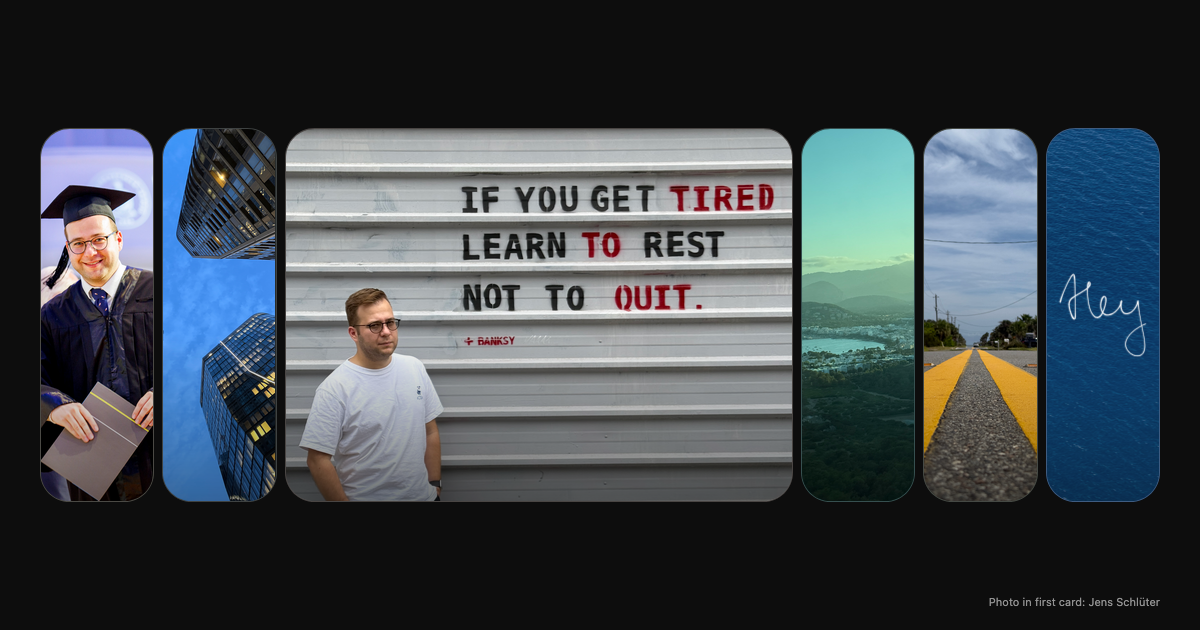
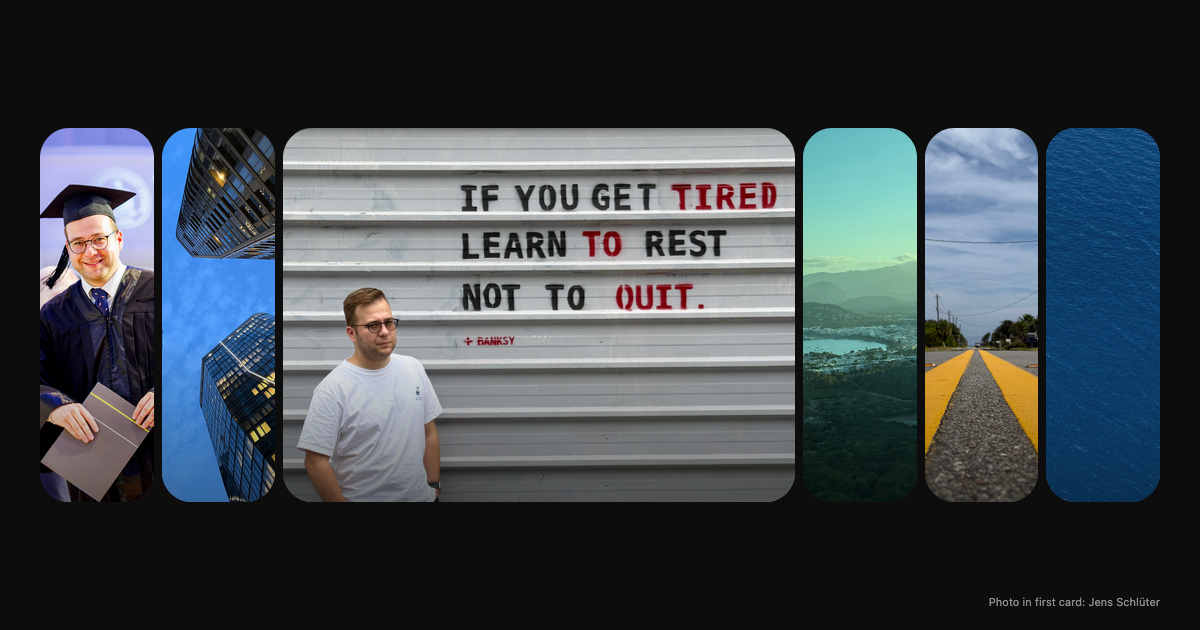
Refresh link preview without Hey lettering

diff --git a/index.html b/index.html
@@ -13,7 +13,7 @@
     <meta property="og:title" content="Christian J. Heinze">
     <meta property="og:description" content="A personal website by Christian J. Heinze.">
     <meta property="og:url" content="https://chrisjohe.github.io/me/">
-    <meta property="og:image" content="https://chrisjohe.github.io/me/assets/link-preview.png">
+    <meta property="og:image" content="https://chrisjohe.github.io/me/assets/link-preview.png?v=20261024-no-hey">
     <meta property="og:image:type" content="image/png">
     <meta property="og:image:width" content="1200">
     <meta property="og:image:height" content="630">
@@ -21,7 +21,7 @@
     <meta name="twitter:card" content="summary_large_image">
     <meta name="twitter:title" content="Christian J. Heinze">
     <meta name="twitter:description" content="A personal website by Christian J. Heinze.">
-    <meta name="twitter:image" content="https://chrisjohe.github.io/me/assets/link-preview.png">
+    <meta name="twitter:image" content="https://chrisjohe.github.io/me/assets/link-preview.png?v=20261024-no-hey">
     <meta name="twitter:image:alt" content="Six photo cards from Christian J. Heinze's personal website, with his portrait in the center.">
     <link rel="icon" type="image/png" sizes="32x32" href="assets/favicon-32.png">
     <link rel="icon" type="image/svg+xml" sizes="any" href="assets/favicon.svg">
